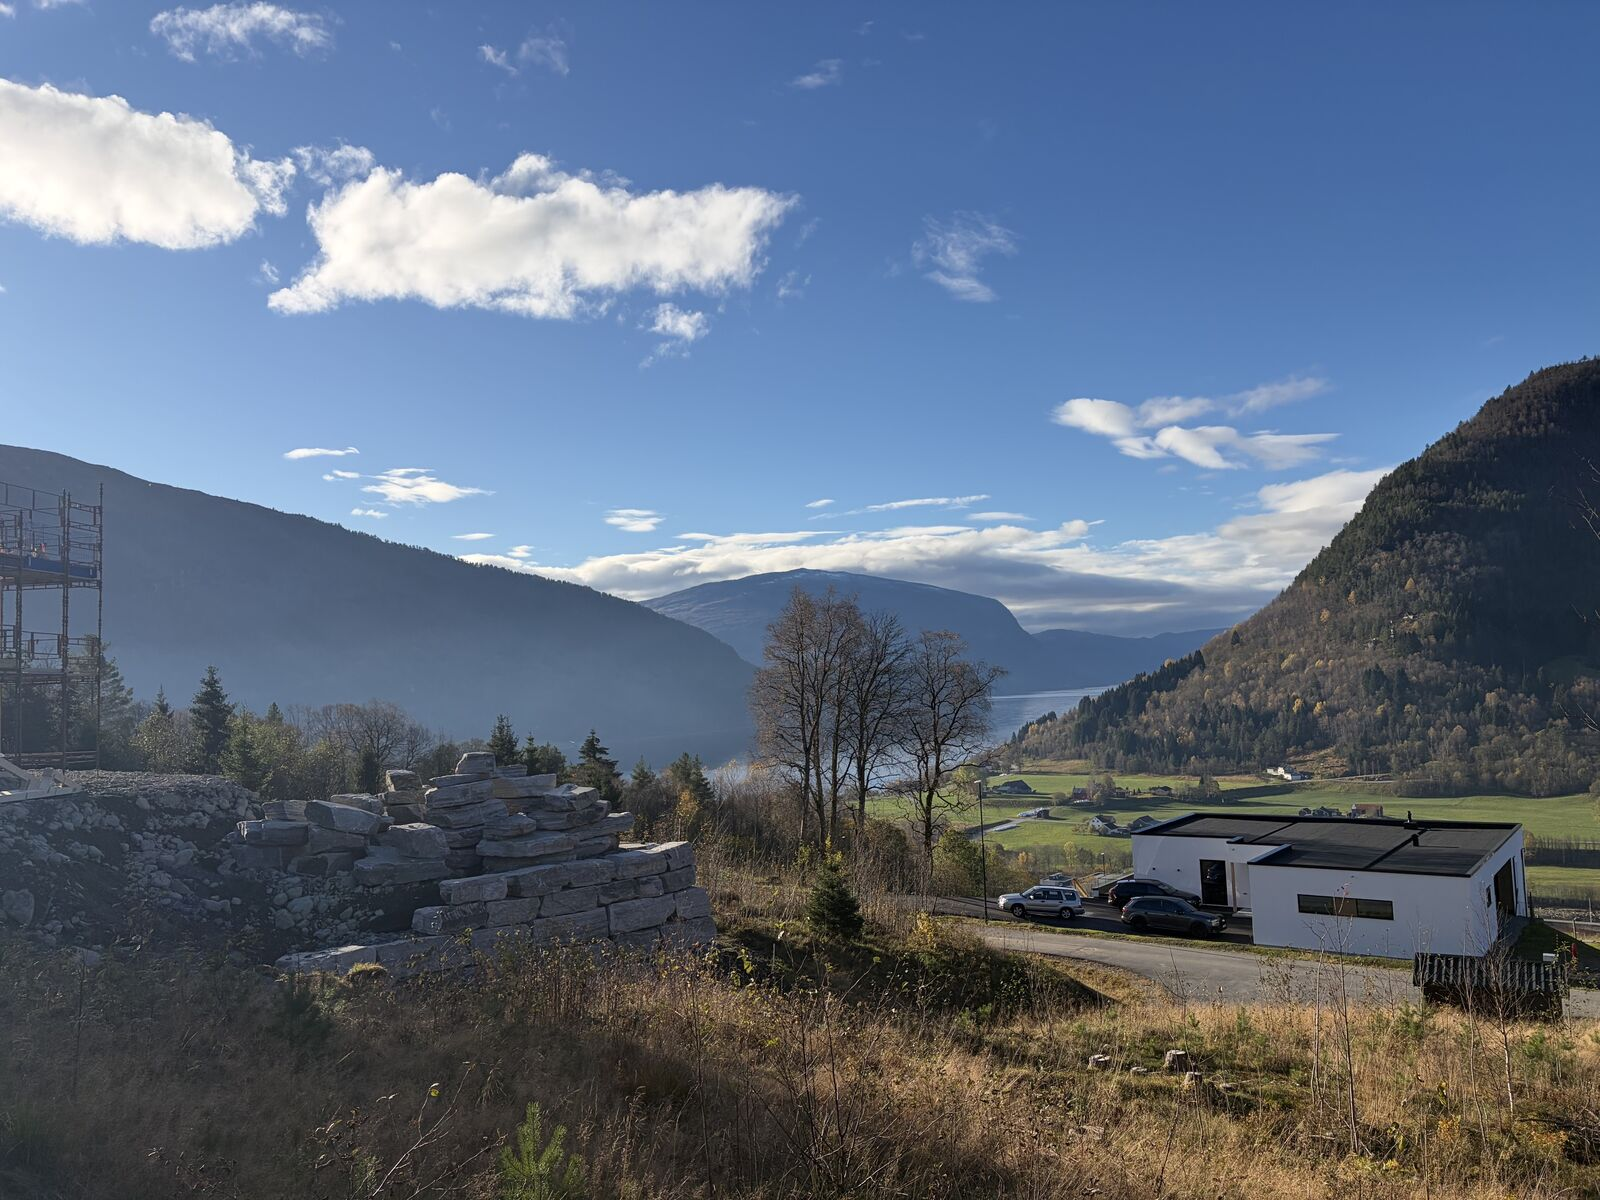
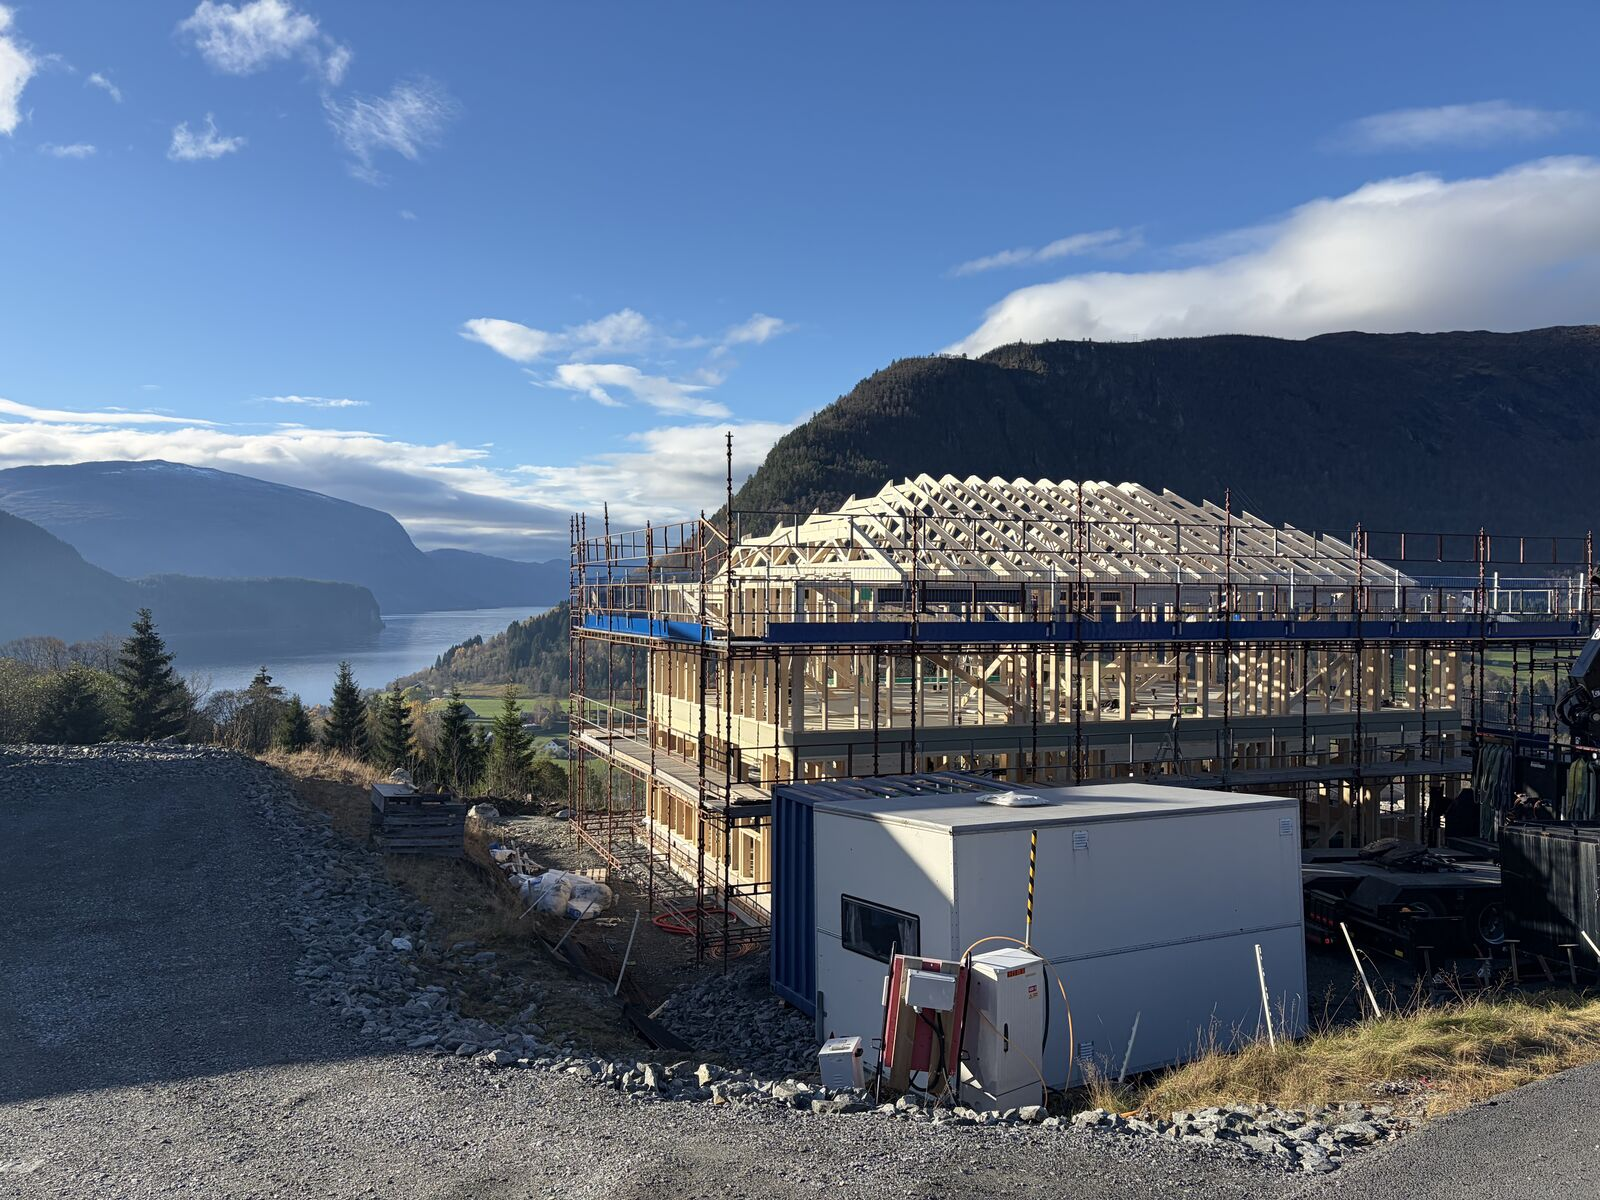
Nytt Løvland-bilete, notis om ope møte 12. november og rollefordeling
- Byt biletet frå Løvland på flytt-sida med eit nytt frå 23.10.2026 (EXIF og GPS fjerna)
- Byt notisen om kommunestyremøtet med invitasjon til ope møte på Smia 12.11 kl. 19-21. Han forsvinn av seg sjølv 13.11
- Ta med rollefordelinga frå presentasjonen i Om oss: selskapet jobbar med næringsutvikling og bulyst, grendeutvalet har den politiske rolla overfor kommunen

diff --git a/index.html b/index.html
@@ -44,9 +44,9 @@
 
   <main id="hovudinnhald">
 
-    <p class="notice" id="notis-29okt">
-      <strong>Torsdag 29. oktober</strong> presenterer vi Hornindal 514 Utvikling for kommunestyret
-      i Volda, som har møte i Honndalshallen. Kl. 19.00 er det ope folkemøte same stad.
+    <p class="notice" id="notis-12nov">
+      <strong>Ope møte torsdag 12. november kl. 19-21 på Smia.</strong> Kom og høyr korleis du kan
+      bidra til Hornindal 514 Utvikling, anten du er bedrift, lag, organisasjon eller privatperson.
     </p>
 
     <section class="hero">
@@ -133,6 +133,10 @@
             «Det gode liv i Hornindal» frå 2012 og samarbeider tett med
             Volda kommune, Høgskulen i Volda, Nordfjordkompaniet, lokalt
             næringsliv og frivillige.
+          </p>
+          <p>
+            Selskapet jobbar med næringsutvikling og bulyst, medan Hornindal
+            Grendeutval har den politiske rolla overfor kommunen.
           </p>
           <p>
             Smia på Grodås er tenkt som base for selskapet, og skal vere ein
@@ -392,9 +396,9 @@
 
   <script>
     document.getElementById('year').textContent = new Date().getFullYear();
-    // Notisen om kommunestyremøtet forsvinn av seg sjølv etter 29. oktober.
-    var notis = document.getElementById('notis-29okt');
-    if (notis && new Date() >= new Date('2026-10-30')) notis.remove();
+    // Notisen om det opne møtet forsvinn av seg sjølv etter 12. november.
+    var notis = document.getElementById('notis-12nov');
+    if (notis && new Date() >= new Date('2026-11-13')) notis.remove();
     (function () {
       var t = document.querySelector('.nav-toggle');
       var n = document.getElementById('hovudmeny');

diff --git a/flytt-til-hornindal.html b/flytt-til-hornindal.html
@@ -131,7 +131,7 @@
         </div>
         <figure class="photo-frame">
           <img src="assets/lovland.jpg"
-               alt="Utsikt frå bustadfeltet Løvland over Hornindalsvatnet, med eit nybygd hus og byggjemateriell på tomtene rundt."
+               alt="Utsikt frå Løvland over Hornindalsvatnet, med eit nytt bygg under oppføring i framgrunnen."
                loading="lazy" />
           <figcaption>Utsikt frå Løvland over Hornindalsvatnet.</figcaption>
         </figure>
